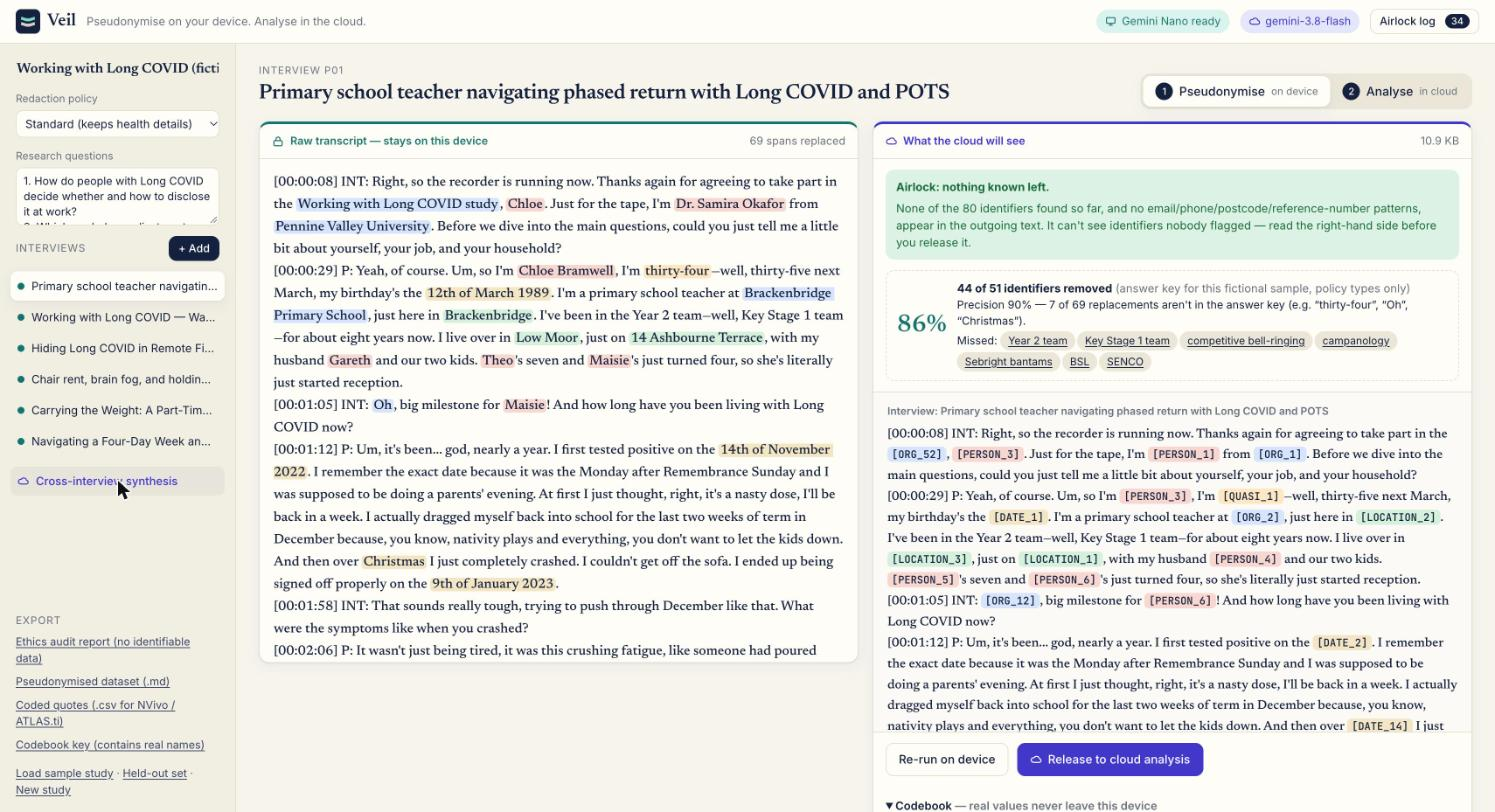
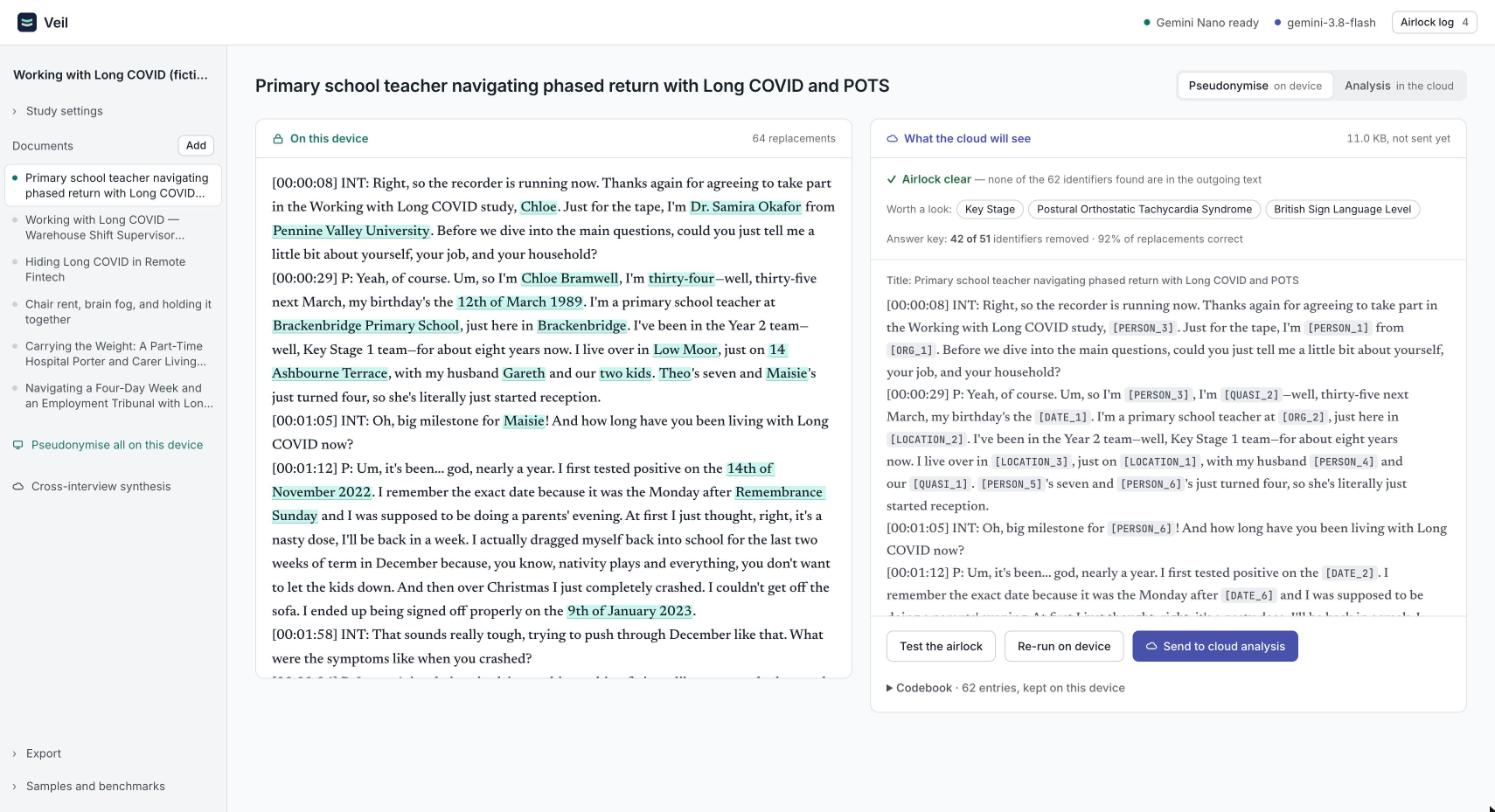
Screenshots, demo GIF and cover from the redesigned interface

diff --git a/README.md b/README.md
@@ -144,7 +144,7 @@ The six-interview study pseudonymises in about 4–5 minutes on a MacBook, entir
 
 **No Gemini Nano in your browser?** Click **Replay a recorded Nano run**: the sample study loads with the detections real Gemini Nano made in Chrome 158 (clearly labelled as recorded), and review, the airlock and cloud analysis run live.
 
-| Cloud analysis, re-identified on this device | Exactly what the cloud saw |
+| Cloud analysis, re-identified on this device | What the cloud will see — and the airlock blocking a slipped-in name |
 |---|---|
 | ![](docs/2-cloud-analysis-reidentified-locally.jpg) | ![](docs/3-what-the-cloud-saw.jpg) |
 
